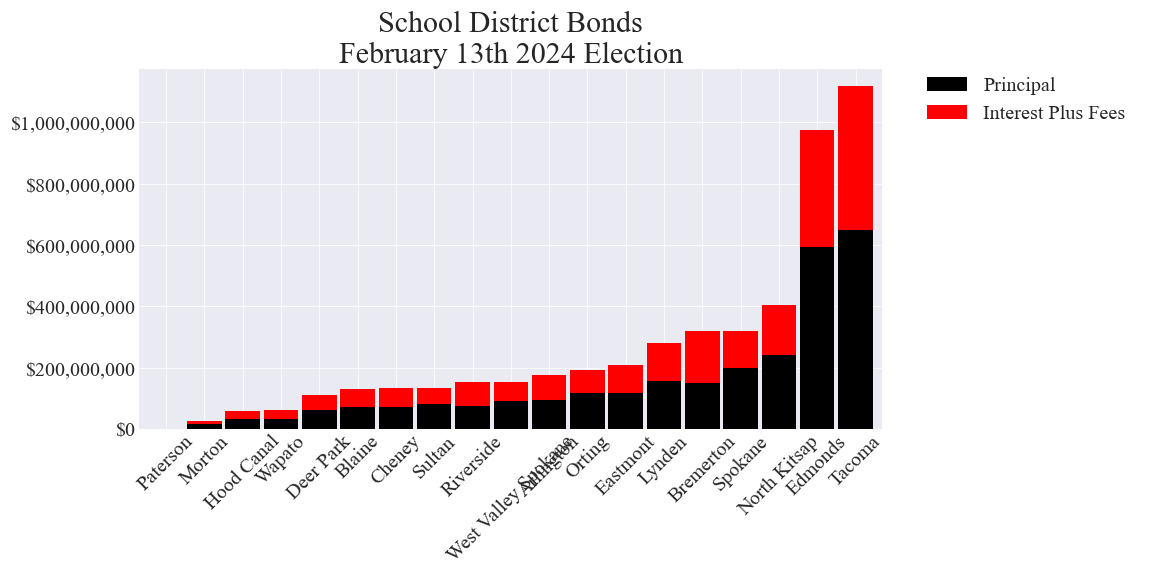
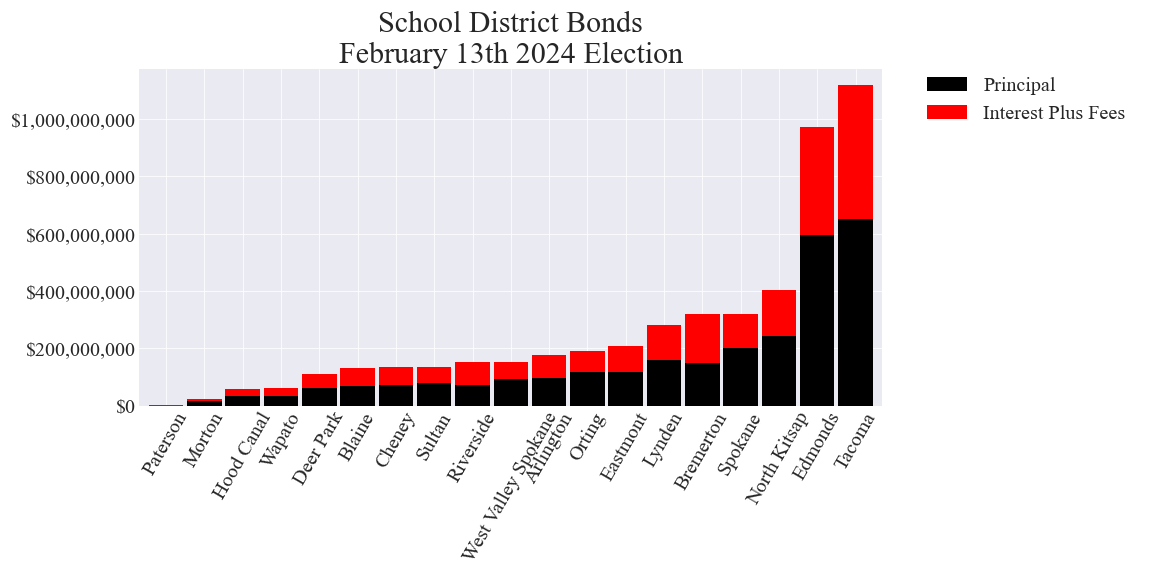
Updated West Valley Spokane SD

diff --git a/pagesManual/LeviesReport/20240213/SpokaneCountyMeasures20240213.md b/pagesManual/LeviesReport/20240213/SpokaneCountyMeasures20240213.md
@@ -186,12 +186,12 @@ ___
 
 ___
 
-### West Valley SD
+### West Valley Spokane SD
 
-![West Valley SD bond totals chart](pagesManual/LeviesReport/20240213/WestValley.png "West Valley SD bond totals chart")
-![West Valley SD bond example parcel chart](pagesManual/LeviesReport/20240213/WestValleyParcel.png "West Valley SD bond example parcel chart")
+![West Valley Spokane SD bond totals chart](pagesManual/LeviesReport/20240213/WestValleySpokane.png "West Valley Spokane SD bond totals chart")
+![West Valley Spokane SD bond example parcel chart](pagesManual/LeviesReport/20240213/WestValleySpokaneParcel.png "West Valley Spokane SD bond example parcel chart")
 
-[Link to the interactive calculator](calculator_west_valley_20240213_enhanced){:target="_blank" rel="noopener"}
+[Link to the interactive calculator](calculator_west_valley_spokane_20240213_enhanced){:target="_blank" rel="noopener"}
 
 ___
 
